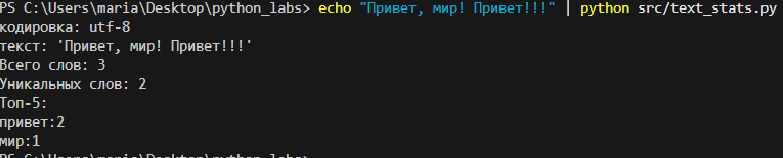
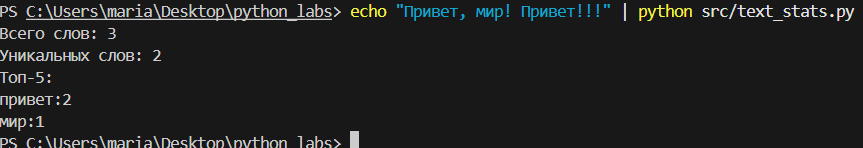
3

Changed region(s): [[0.0, 0.0, 1.0, 0.4595], [0.0, 0.5946, 0.4291, 1.0], [0.0, 0.4865, 0.1839, 0.5676]]

diff --git a/src/text_stats.py b/src/text_stats.py
@@ -1,54 +1,18 @@
 import sys
-import os
 from lib.text import *
-import tempfile
 
 def main():
-    '''
-    создаю функцию, проверяющую кодировку введенного текста, так как павершелл читал мое 'привет' как '????!!' - не понимал кириллицу.
-    '''
-    input_bytes = sys.stdin.buffer.read()
-    with tempfile.NamedTemporaryFile(mode='wb', delete=False, suffix='.txt') as f:
-        f.write(input_bytes)
-        founder_utf = f.name #путь к f
-        
-    text = ""
-    encodings = ['utf-8', 'utf-16-le', 'cp1251']
-    
-    for encoding in encodings:
-        try:
-            with open(founder_utf, 'r', encoding=encoding) as f:
-                candidat = f.read().strip()
-                if candidat and any(c.isalpha() for c in candidat):
-                    text = candidat
-                    print(f"кодировка: {encoding}", file=sys.stderr)
-                    print(f"текст: '{text}'", file=sys.stderr)
-                    break
-        except UnicodeDecodeError:
-            continue
-    os.unlink(founder_utf)
-    
-    if not text:
-        print("Всего слов: 0")
-        print("Уникальных слов: 0")
-        print("Топ-5:")
-        return
+    text = "Привет, мир! Привет!!!"
     
     normalized_text = normalize(text)
     tokens = tokenize(normalized_text)
     
-    if not tokens:
-        print("Всего слов: 0")
-        print("Уникальных слов: 0")
-        print("Топ-5:")
-        return
+    print(f"Всего слов: {len(tokens)}")
+    print(f"Уникальных слов: {len(set(tokens))}")
+    print("Топ-5:")
     
     freq_dict = count_freq(tokens)
     top_words = top_n(freq_dict, 5)
-    
-    print(f"Всего слов: {len(tokens)}")
-    print(f"Уникальных слов: {len(freq_dict)}")
-    print("Топ-5:")
     
     for word, count in top_words:
         print(f"{word}:{count}")

diff --git a/README.md b/README.md
@@ -370,56 +370,20 @@ print(top_n(freq2, 2))
  
 ```python
 import sys
-import os
 from lib.text import *
-import tempfile
 
 def main():
-    '''
-    создаю функцию, проверяющую кодировку введенного текста, так как павершелл читал мое 'привет' как '????!!' - не понимал кириллицу.
-    '''
-    input_bytes = sys.stdin.buffer.read()
-    with tempfile.NamedTemporaryFile(mode='wb', delete=False, suffix='.txt') as f:
-        f.write(input_bytes)
-        founder_utf = f.name #путь к f
-        
-    text = ""
-    encodings = ['utf-8', 'utf-16-le', 'cp1251']
-    
-    for encoding in encodings:
-        try:
-            with open(founder_utf, 'r', encoding=encoding) as f:
-                candidat = f.read().strip()
-                if candidat and any(c.isalpha() for c in candidat):
-                    text = candidat
-                    print(f"кодировка: {encoding}", file=sys.stderr)
-                    print(f"текст: '{text}'", file=sys.stderr)
-                    break
-        except UnicodeDecodeError:
-            continue
-    os.unlink(founder_utf)
-    
-    if not text:
-        print("Всего слов: 0")
-        print("Уникальных слов: 0")
-        print("Топ-5:")
-        return
+    text = "Привет, мир! Привет!!!"
     
     normalized_text = normalize(text)
     tokens = tokenize(normalized_text)
     
-    if not tokens:
-        print("Всего слов: 0")
-        print("Уникальных слов: 0")
-        print("Топ-5:")
-        return
+    print(f"Всего слов: {len(tokens)}")
+    print(f"Уникальных слов: {len(set(tokens))}")
+    print("Топ-5:")
     
     freq_dict = count_freq(tokens)
     top_words = top_n(freq_dict, 5)
-    
-    print(f"Всего слов: {len(tokens)}")
-    print(f"Уникальных слов: {len(freq_dict)}")
-    print("Топ-5:")
     
     for word, count in top_words:
         print(f"{word}:{count}")
